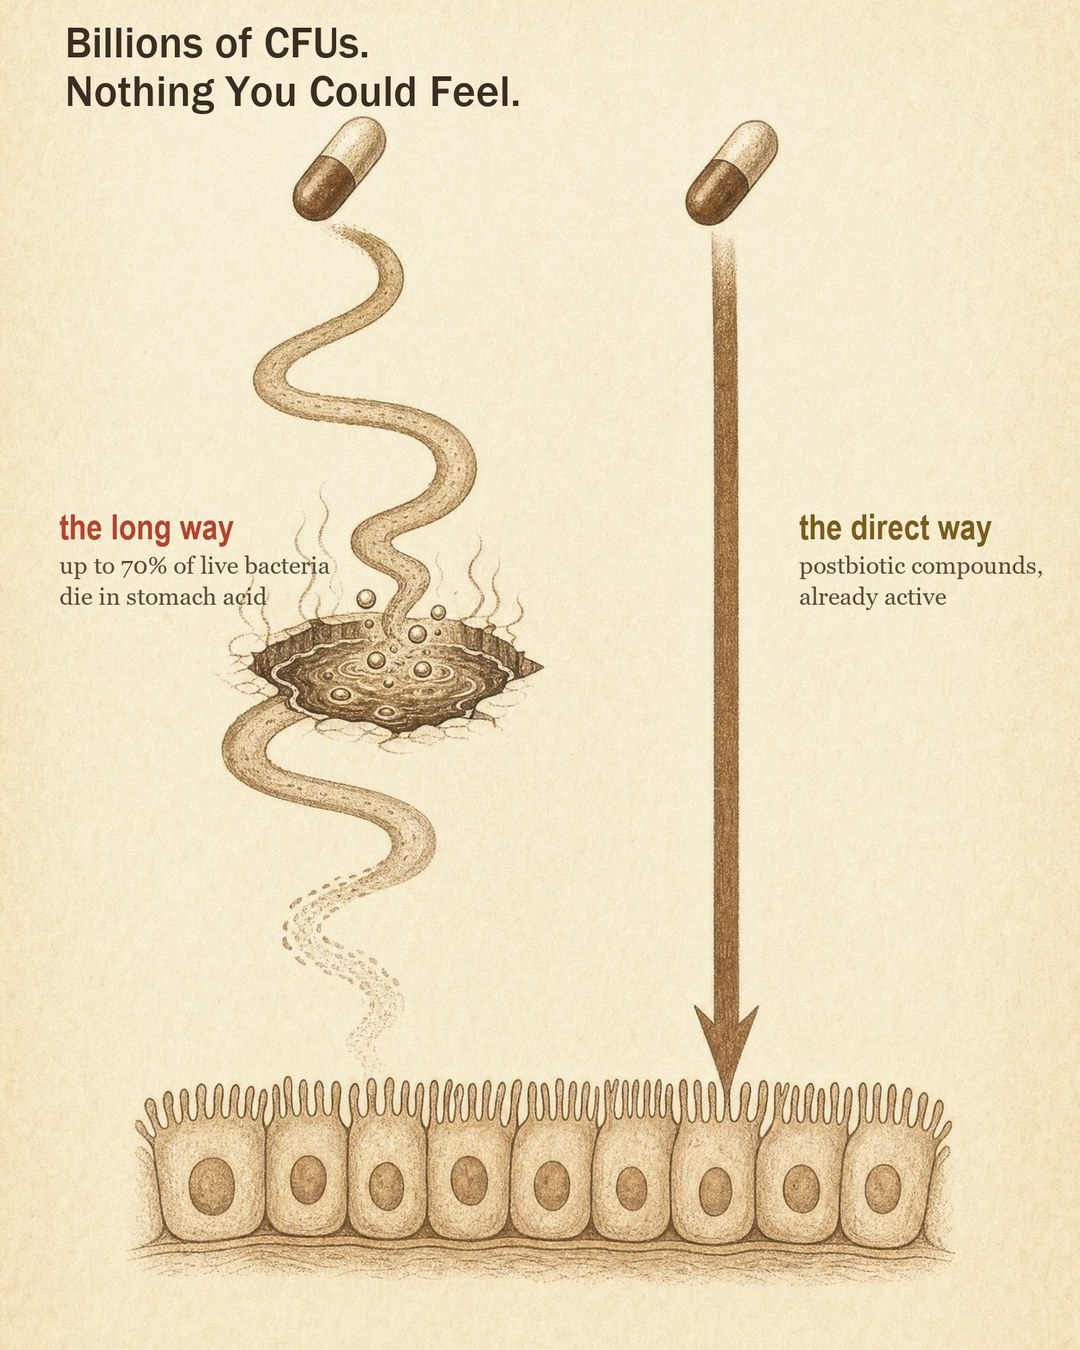
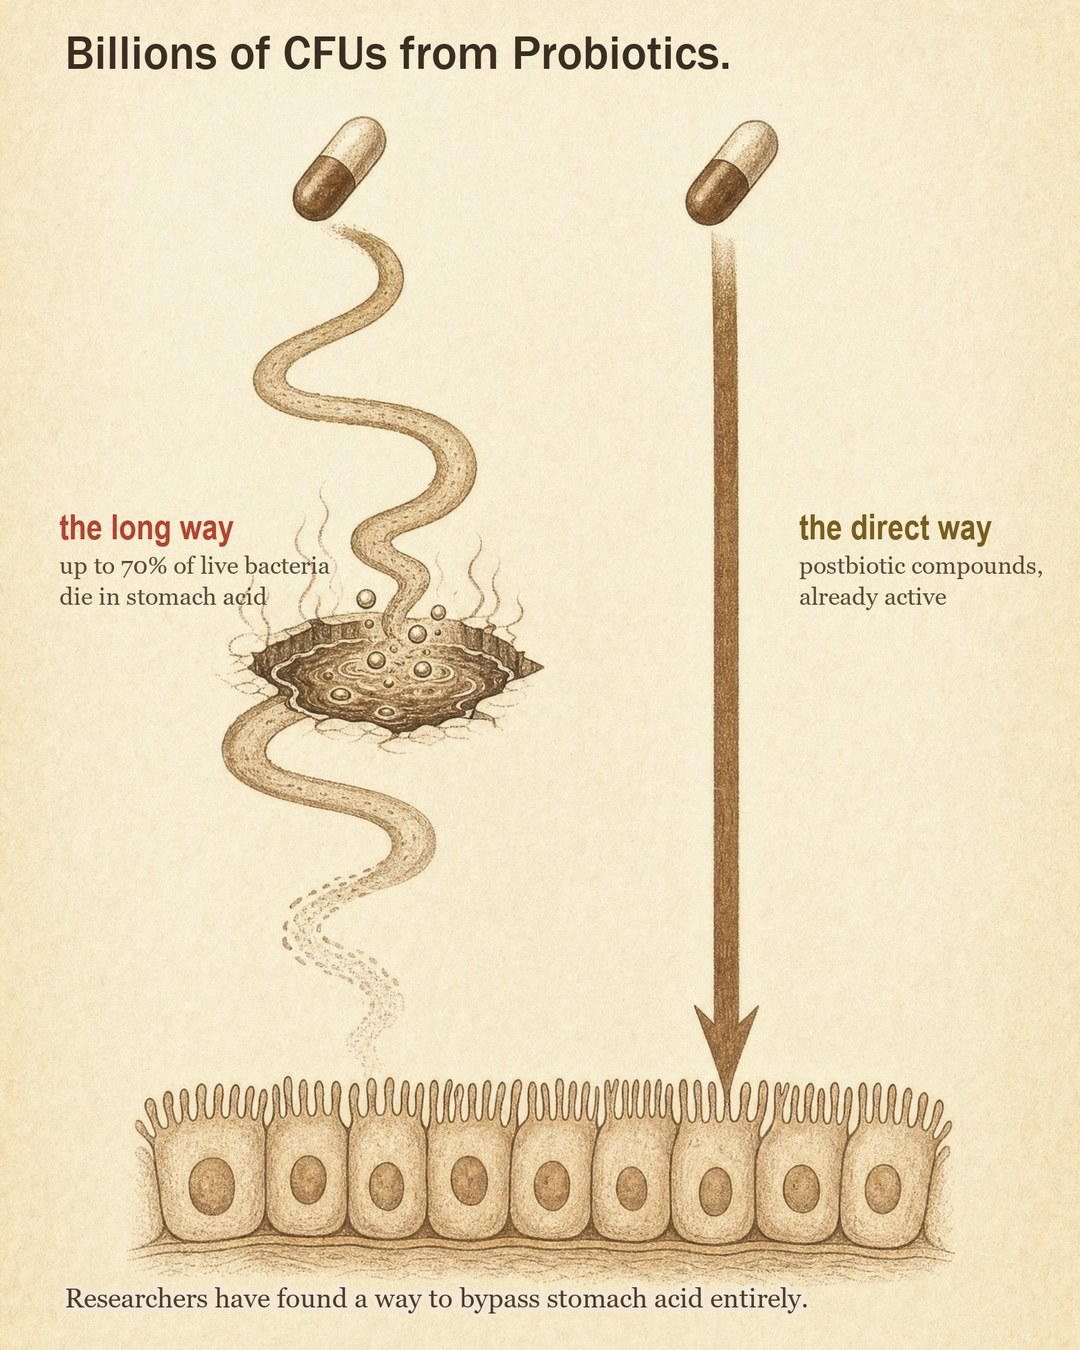
fix(sk-bold): operator copy revisions on B, G, H, K
adB bottom ties the 91% stat to the midlife drop; adH names probiotics
in the headline and closes on the acid-bypass tease; adG closes on the
probiotics-die-first + new-technology tease (hedged); adK headline now
'Normal Lab Tests. Same Brain Fog.' with new-technology closer.
Solution-tease closer pattern documented in copy-notes.

Changed region(s): [[0.0611, 0.0, 0.6722, 0.0933], [0.3972, 0.9333, 0.7333, 0.9956], [0.0611, 0.9333, 0.3667, 0.9956]]

diff --git a/clients/secondkind-bold/static-ads/mechanism-infographic-2026-07/copy-notes.md b/clients/secondkind-bold/static-ads/mechanism-infographic-2026-07/copy-notes.md
@@ -24,6 +24,11 @@ Type floor (operator legibility note, 2026-07-08): deck lines 0.022, diagram lab
 #57432F (the lighter #8A6A2F / #6B5844 read as hard-to-see). Red #B5432F and cream
 #F2E8D5-on-dark are fine. Chart labels sit adjacent to their own line, not floating.
 
+Solution-tease closers (operator-directed, 2026-07-08): B/G/H/K now end on a hedged
+tease of the fix ("A new technology is now changing that." / "Researchers have found
+a way to bypass stomach acid entirely." / "The new technology nobody is talking about
+yet."). Category-level and unbranded; still zero product names on curiosity ads.
+
 | Ad | Headline | Visual | Reference it maps to |
 |---|---|---|---|
 | A | Midlife Brain Fog May Start Here, Not in the Brain | vintage textbook gut-wall cross-section, red particles slipping the lining, nerve to brain; labels: gut lining / signal molecules / to the brain | "Fibromyalgia pain might be a gut wall issue" |
@@ -42,7 +47,7 @@ palette, and news-genre typography as wave 1.
 | E | The Exhaustion That More Sleep Doesn't Fix | "getting more sleep now. It did not resolve" | woman asleep in bed, thread down to a nearly empty battery, label "what mornings feel like" |
 | F | The 2pm Wall Isn't a Caffeine Problem | the 2pm crash despite fixing coffee + sleep | hand-drawn energy curve climbing from 9 a.m. then cliff-dropping at "the wall"; dashed gold "with steady signals" alternative |
 | G | Anxiety Without a Reason May Be a Signal Problem | baseless dread, wired-but-flat | intestine emitting jagged red "signal noise" wave vs smooth gold "steady signal" wave |
-| H | Billions of CFUs. Nothing You Could Feel. | "tried probiotics, felt nothing" (category indictment, no brands) | two capsules: winding route dissolving in a stomach-acid pool vs direct arrow reaching the gut wall; "the long way / the direct way" |
+| H | Billions of CFUs from Probiotics. | "tried probiotics, felt nothing" (category indictment, no brands) | two capsules: winding route dissolving in a stomach-acid pool vs direct arrow reaching the gut wall; "the long way / the direct way" |
 | I | Out-of-Character Mood Swings May Start in the Gut | snapping at family, "who was that?" | seismograph strip: calm line, two red quake bursts "out of nowhere", settling to gold "steadier" |
 
 ## Wave 3 (adJ-adM): the perimenopause angle
@@ -55,7 +60,7 @@ nobody checks." News register per the 2026-07-08 rule.
 | Ad | Headline | Visual | LP element it front-runs |
 |---|---|---|---|
 | J | It's Not Perimenopause. Doctors Are Finding a Different Root Cause. | vintage textbook brain + intestine connected by gold vagus line, label "the signal route" | the operator's model line verbatim; vagus nerve frame |
-| K | Normal Labs. Same Fog. | sepia iceberg, cream tip vs huge oxblood mass; labels "what gets tested" / "what never gets tested"; kicker "Not yet part of routine midlife screening." | "not part of routine midlife screening" + normal-labs dismissal |
+| K | Normal Lab Tests. Same Brain Fog. | sepia iceberg, cream tip vs huge oxblood mass; labels "what gets tested" / "what never gets tested"; kicker "The new technology nobody is talking about yet." | "not part of routine midlife screening" + normal-labs dismissal |
 | L | The Perimenopause Symptoms That May Not Be Perimenopause | gold + oxblood venn, overlap holds brain fog / mood swings / exhaustion | symptom checklist; "communication breakdown" second system |
 | M | What Perimenopause Gets Blamed For | two declining curves age 40 to 55: estrogen (expected) vs gut signal (unchecked); kicker "Only one is on the standard panel." | "accelerates during perimenopause"; screening gap |
 
